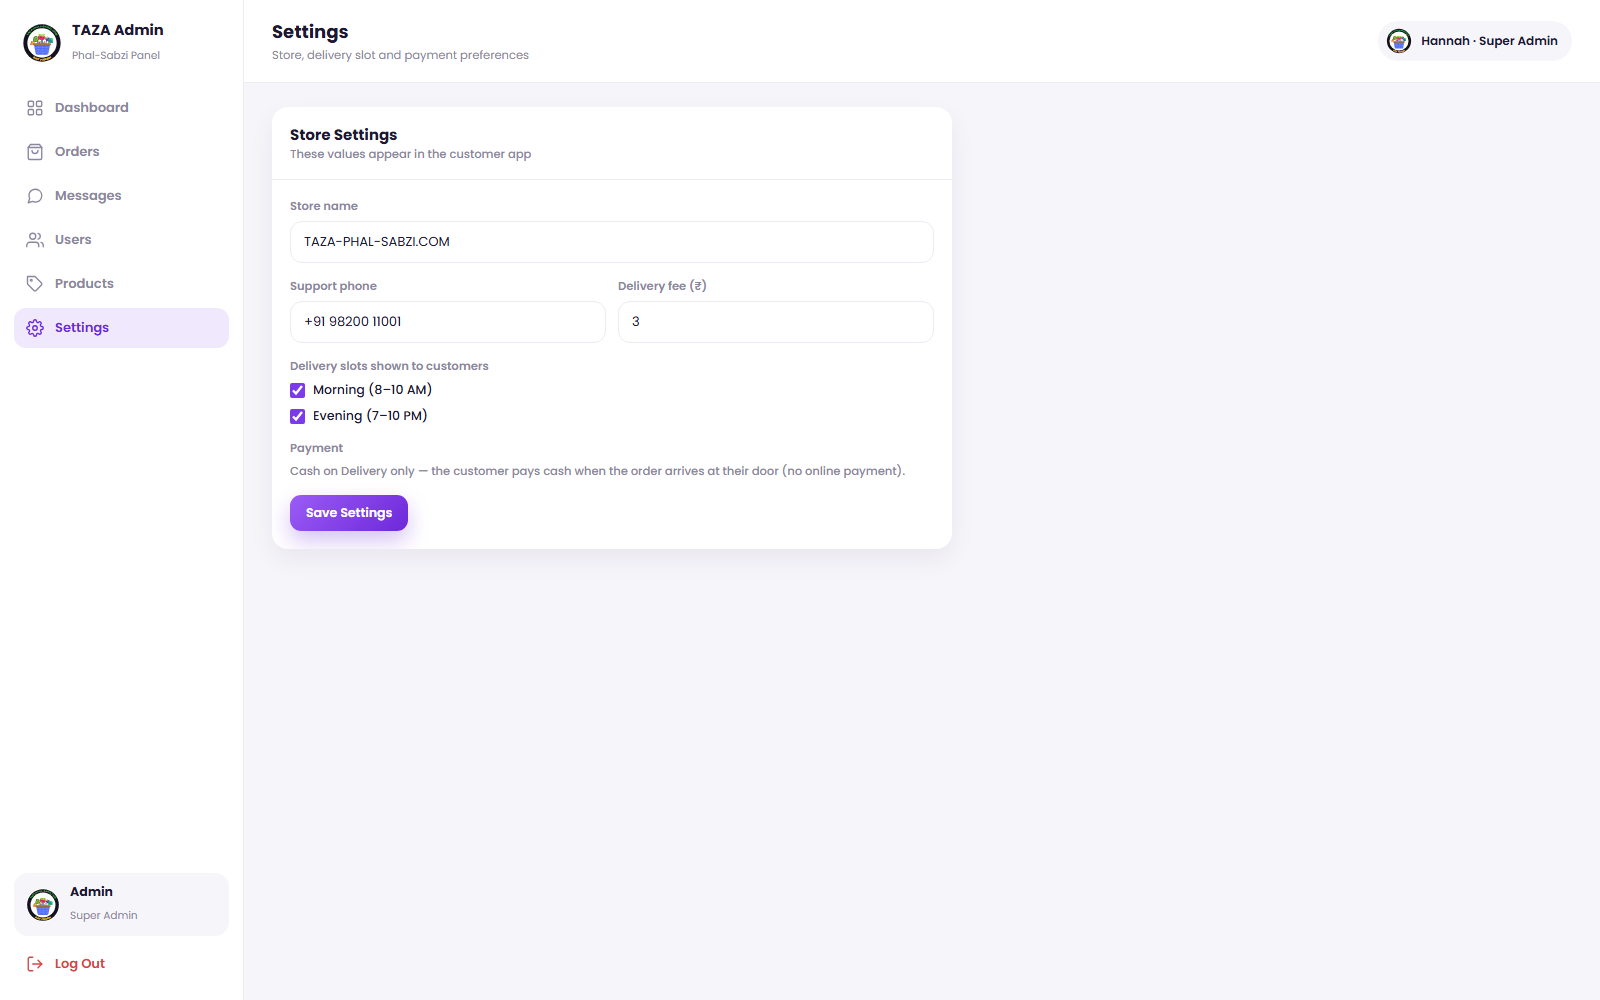
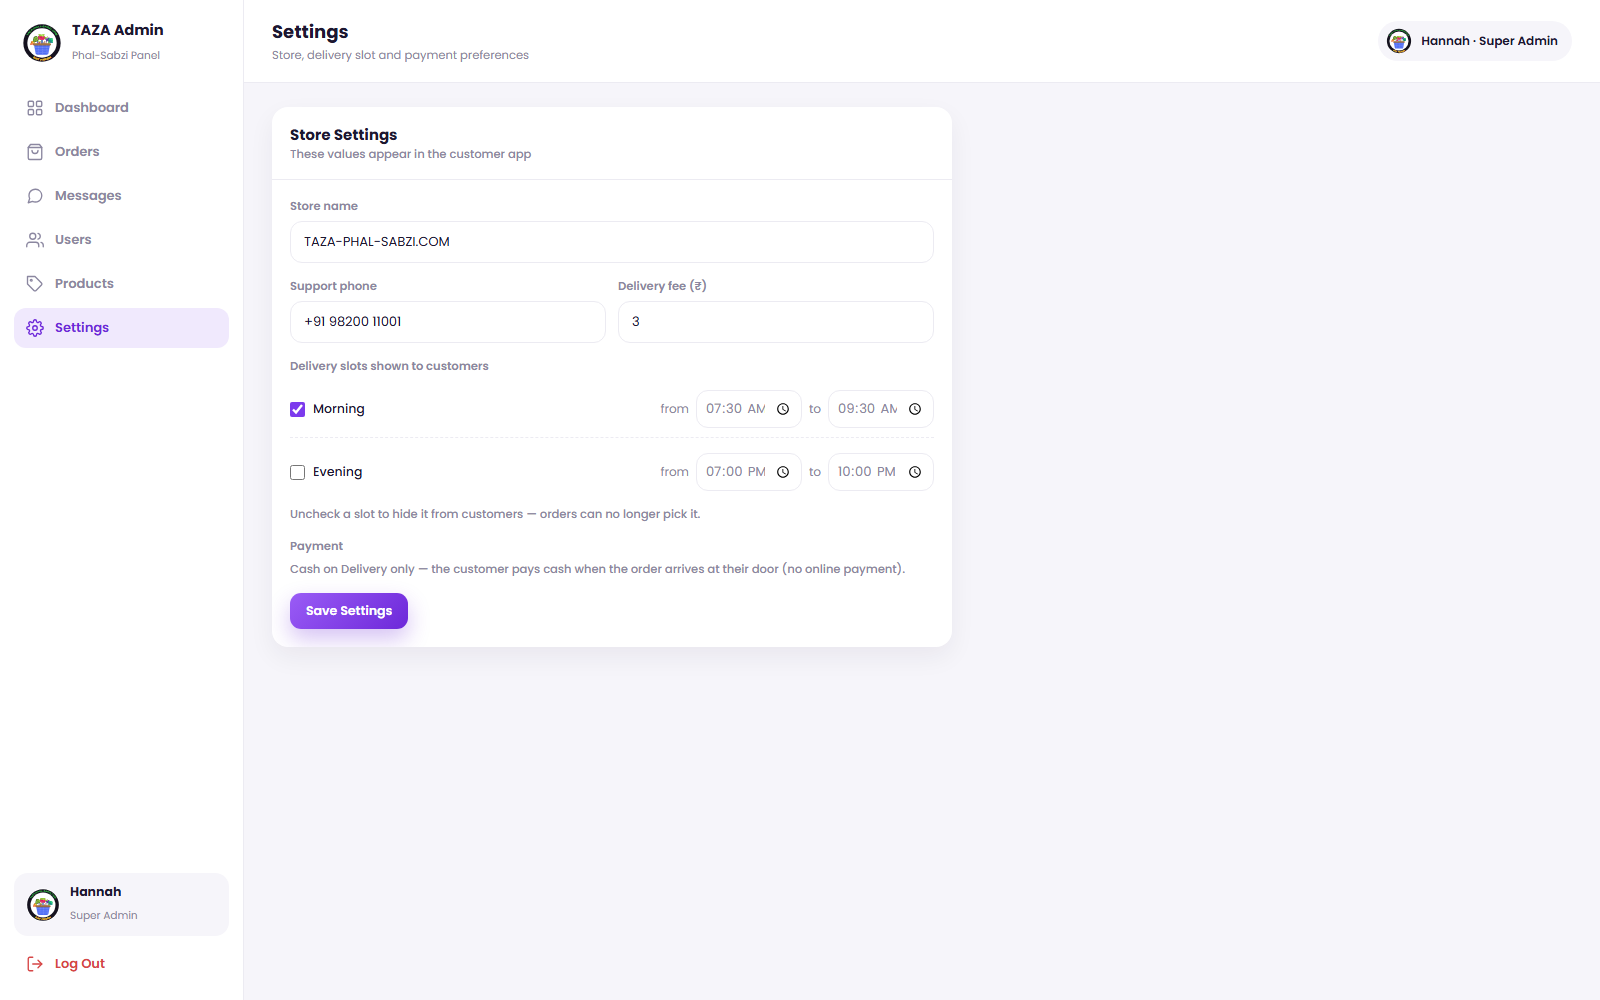
Delivery slots: admin-editable timings + disabled slots enforced (cart hides them, server rejects)

Changed region(s): [[0.1562, 0.372, 0.5625, 0.651], [0.4375, 0.403, 0.5, 0.434], [0.5312, 0.403, 0.5625, 0.434]]

diff --git a/templates/app.js b/templates/app.js
@@ -217,8 +217,9 @@
       menu_help: 'Help & Support',
       menu_logout: 'Log Out',
       slot_title: 'Delivery Slot',
-      slot_morning: 'Morning (8–10 AM)',
-      slot_evening: 'Evening (7–10 PM)',
+      slot_morning: 'Morning',
+      slot_evening: 'Evening',
+      slot_none: 'No delivery slots are open right now — please check back soon',
       slot_sub: 'Order before 10 PM · delivered next morning',
       pay_title: 'Payment Method',
       pay_cod: 'Cash on Delivery',
@@ -409,8 +410,9 @@
       menu_help: 'सहायता और समर्थन',
       menu_logout: 'लॉग आउट',
       slot_title: 'डिलीवरी समय',
-      slot_morning: 'सुबह (8–10 बजे)',
-      slot_evening: 'शाम (7–10 बजे)',
+      slot_morning: 'सुबह',
+      slot_evening: 'शाम',
+      slot_none: 'अभी कोई डिलीवरी स्लॉट उपलब्ध नहीं है — कृपया बाद में देखें',
       slot_sub: 'रात 10 बजे से पहले ऑर्डर = अगली सुबह डिलीवरी',
       pay_title: 'भुगतान विधि',
       pay_cod: 'कैश ऑन डिलीवरी',
@@ -601,8 +603,9 @@
       menu_help: 'मदत आणि समर्थन',
       menu_logout: 'लॉग आउट',
       slot_title: 'वितरण वेळ',
-      slot_morning: 'सकाळ (8–10)',
-      slot_evening: 'संध्याकाळ (7–10)',
+      slot_morning: 'सकाळ',
+      slot_evening: 'संध्याकाळ',
+      slot_none: 'सध्या कोणताही डिलिव्हरी स्लॉट उपलब्ध नाही — कृपया नंतर पहा',
       slot_sub: 'रात्री 10 पर्यंत ऑर्डर = पुढील सकाळी वितरण',
       pay_title: 'पेमेंट पद्धत',
       pay_cod: 'कॅश ऑन डिलिव्हरी',
@@ -2143,6 +2146,56 @@
       if (!ok) return;
       pollUnread();
       setInterval(pollUnread, 15000);
+    });
+  }
+
+  /* ---------- delivery slots: respect the admin's enabled slots + times ---------- */
+
+  function slotRangeText(from, to) {
+    var parts = function (t) {
+      var p = String(t || '').split(':');
+      var h = parseInt(p[0], 10) || 0;
+      var m = parseInt(p[1], 10) || 0;
+      return { h: ((h + 11) % 12) + 1, m: m, ap: h >= 12 ? 'PM' : 'AM' };
+    };
+    var a = parts(from), b = parts(to);
+    var fmt = function (x) { return x.h + (x.m ? ':' + String(x.m).padStart(2, '0') : ''); };
+    return a.ap === b.ap ? fmt(a) + '–' + fmt(b) + ' ' + b.ap : fmt(a) + ' ' + a.ap + ' – ' + fmt(b) + ' ' + b.ap;
+  }
+
+  function applySlotSettings(s) {
+    if (!s) return;
+    var mOpt = document.getElementById('slotMorningOpt');
+    var eOpt = document.getElementById('slotEveningOpt');
+    var mR = document.getElementById('slotRangeMorning');
+    var eR = document.getElementById('slotRangeEvening');
+    if (mR && s.morning_from && s.morning_to) mR.textContent = '(' + slotRangeText(s.morning_from, s.morning_to) + ')';
+    if (eR && s.evening_from && s.evening_to) eR.textContent = '(' + slotRangeText(s.evening_from, s.evening_to) + ')';
+
+    var mOn = Number(s.morning_slot) !== 0;
+    var eOn = Number(s.evening_slot) !== 0;
+    if (mOpt) mOpt.hidden = !mOn;
+    if (eOpt) eOpt.hidden = !eOn;
+
+    var card = $('.slot-card');
+    if (!card) return;
+    var active = $('.addr-option.active', card);
+    if (!active || active.hidden) {
+      var pick = mOn ? mOpt : (eOn ? eOpt : null);
+      $$('.addr-option', card).forEach(function (o) { o.classList.remove('active'); });
+      if (pick) {
+        pick.classList.add('active');
+        var inp = $('input', pick);
+        if (inp) inp.checked = true;
+      }
+    }
+    if (!mOn && !eOn) toast(t('slot_none'), 3000);
+  }
+
+  if (document.querySelector('.slot-card') && window.TAZA) {
+    window.TAZA.available().then(function (ok) {
+      if (!ok) return;
+      window.TAZA.getSettings().then(applySlotSettings).catch(function () { /* keep the defaults */ });
     });
   }
 

diff --git a/admin/admin.js b/admin/admin.js
@@ -205,7 +205,7 @@
         { from: 'me', text: 'Happy to help 🌿 See you in tomorrow\'s cycle.', time: '10:05 AM' }
       ] }
     ],
-    settings: { store_name: 'TAZA-PHAL-SABZI.COM', support_phone: '+91 98200 11001', delivery_fee: 3, cutoff_hour: 22, morning_slot: 1, evening_slot: 1, upi_enabled: 0, cod_enabled: 1 }
+    settings: { store_name: 'TAZA-PHAL-SABZI.COM', support_phone: '+91 98200 11001', delivery_fee: 3, cutoff_hour: 22, morning_slot: 1, evening_slot: 1, morning_from: '08:00', morning_to: '10:00', evening_from: '19:00', evening_to: '22:00', upi_enabled: 0, cod_enabled: 1 }
   };
 
   var state = {
@@ -553,7 +553,11 @@
         '<div class="kv"><span>Fruits</span><b>' + (fruitCount || 16) + '</b></div>' +
         '<div class="kv"><span>Order cutoff</span><b>' + settings.cutoff_hour + ':00 PM daily</b></div>' +
         '<div class="kv"><span>Daily capacity</span><b>99 orders</b></div>' +
-        '<div class="kv"><span>Delivery slots</span><b>' + (settings.morning_slot ? 'Morning' : '') + (settings.morning_slot && settings.evening_slot ? ' · ' : '') + (settings.evening_slot ? 'Evening' : '') + '</b></div>' +
+        '<div class="kv"><span>Delivery slots</span><b>' +
+        (settings.morning_slot ? 'Morning ' + slotRangeText(settings.morning_from || '08:00', settings.morning_to || '10:00') : '') +
+        (settings.morning_slot && settings.evening_slot ? ' · ' : '') +
+        (settings.evening_slot ? 'Evening ' + slotRangeText(settings.evening_from || '19:00', settings.evening_to || '22:00') : '') +
+        '</b></div>' +
         '<div class="kv"><span>Payments</span><b>Cash on Delivery — collected at the door</b></div>';
     }
   }
@@ -1101,8 +1105,25 @@
     if ($('#stFee')) $('#stFee').value = s.delivery_fee;
     if ($('#stMorning')) $('#stMorning').checked = !!s.morning_slot;
     if ($('#stEvening')) $('#stEvening').checked = !!s.evening_slot;
+    if ($('#stMorningFrom')) $('#stMorningFrom').value = s.morning_from || '08:00';
+    if ($('#stMorningTo')) $('#stMorningTo').value = s.morning_to || '10:00';
+    if ($('#stEveningFrom')) $('#stEveningFrom').value = s.evening_from || '19:00';
+    if ($('#stEveningTo')) $('#stEveningTo').value = s.evening_to || '22:00';
     if ($('#stUpi')) $('#stUpi').checked = !!s.upi_enabled;
     if ($('#stCod')) $('#stCod').checked = !!s.cod_enabled;
+  }
+
+  /* '08:00' + '10:00' -> "8–10 AM" (compact customer-facing range) */
+  function slotRangeText(from, to) {
+    const parts = function (t) {
+      const p = String(t || '').split(':');
+      const h = parseInt(p[0], 10) || 0;
+      const m = parseInt(p[1], 10) || 0;
+      return { h: ((h + 11) % 12) + 1, m: m, ap: h >= 12 ? 'PM' : 'AM' };
+    };
+    const a = parts(from), b = parts(to);
+    const fmt = function (x) { return x.h + (x.m ? ':' + String(x.m).padStart(2, '0') : ''); };
+    return a.ap === b.ap ? fmt(a) + '–' + fmt(b) + ' ' + b.ap : fmt(a) + ' ' + a.ap + ' – ' + fmt(b) + ' ' + b.ap;
   }
 
   function setupSettings() {
@@ -1110,12 +1131,20 @@
     if (!form) return;
     form.addEventListener('submit', function (e) {
       e.preventDefault();
+      var timeVal = function (id, fallback) {
+        var el = $(id);
+        return el && el.value ? el.value : fallback;
+      };
       var payload = {
         store_name: $('#stStoreName') ? $('#stStoreName').value.trim() : undefined,
         support_phone: $('#stPhone') ? $('#stPhone').value.trim() : undefined,
         delivery_fee: $('#stFee') ? parseInt($('#stFee').value, 10) : undefined,
         morning_slot: $('#stMorning') && $('#stMorning').checked ? 1 : 0,
         evening_slot: $('#stEvening') && $('#stEvening').checked ? 1 : 0,
+        morning_from: timeVal('#stMorningFrom', undefined),
+        morning_to: timeVal('#stMorningTo', undefined),
+        evening_from: timeVal('#stEveningFrom', undefined),
+        evening_to: timeVal('#stEveningTo', undefined),
         upi_enabled: 0,
         cod_enabled: 1
       };

diff --git a/server/test-e2e.js b/server/test-e2e.js
@@ -257,6 +257,27 @@ function check(name, ok, extra) {
   const meAfter = await req('GET', '/api/auth/me', null, custToken);
   check('customer uploads a profile photo', avRes.status === 200 && !!avJson.user && !!avJson.user.avatar && meAfter.data.user.avatar === avJson.user.avatar, avJson.user ? avJson.user.avatar : 'failed');
 
+  /* 17. delivery slots: admin timings + disabled slot enforcement */
+  const slotSet0 = await req('GET', '/api/settings');
+  check('public settings expose slot windows', slotSet0.status === 200 && slotSet0.data.morning_slot !== undefined && slotSet0.data.morning_from !== undefined, 'morning ' + slotSet0.data.morning_from + '–' + slotSet0.data.morning_to);
+
+  await req('PUT', '/api/admin/settings', { morning_slot: 1, evening_slot: 0, morning_from: '07:30', morning_to: '09:30' }, adminToken);
+  const slotSet1 = await req('GET', '/api/settings');
+  const tryEvening = await req('POST', '/api/orders', {
+    items: [{ productId: itemA.id, qty: 1 }],
+    slot: 'evening',
+    payment: 'cod',
+    address: 'QA Lane, Test City'
+  }, custToken);
+  check(
+    'disabled slot is rejected at checkout + admin times are live',
+    Number(slotSet1.data.evening_slot) === 0 && slotSet1.data.morning_from === '07:30' && tryEvening.status === 400,
+    'evening order → ' + tryEvening.status + ', morning from ' + slotSet1.data.morning_from
+  );
+
+  /* restore the default slot windows */
+  await req('PUT', '/api/admin/settings', { morning_slot: 1, evening_slot: 1, morning_from: '08:00', morning_to: '10:00', evening_from: '19:00', evening_to: '22:00' }, adminToken);
+
   /* summary */
   console.log('');
   console.log(results.join('\n'));

diff --git a/server/routes/admin.js b/server/routes/admin.js
@@ -204,11 +204,17 @@ router.put('/settings', requireAdmin, wrap(async (req, res) => {
   const b = req.body || {};
   const num = function (v) { return v === undefined || v === null || v === '' ? null : Math.max(0, parseInt(v, 10) || 0); };
   const flag = function (v) { return v === 0 || v === 1 || v === true || v === false ? (v ? 1 : 0) : null; };
+  const time = function (v) {
+    const s = String(v || '').trim();
+    return /^([01]\d|2[0-3]):[0-5]\d$/.test(s) ? s : null;   /* HH:MM (24h) */
+  };
 
   await db.query(
     'UPDATE settings SET store_name = COALESCE(?, store_name), support_phone = COALESCE(?, support_phone), ' +
     'delivery_fee = COALESCE(?, delivery_fee), cutoff_hour = COALESCE(?, cutoff_hour), ' +
     'morning_slot = COALESCE(?, morning_slot), evening_slot = COALESCE(?, evening_slot), ' +
+    'morning_from = COALESCE(?, morning_from), morning_to = COALESCE(?, morning_to), ' +
+    'evening_from = COALESCE(?, evening_from), evening_to = COALESCE(?, evening_to), ' +
     'upi_enabled = COALESCE(?, upi_enabled), cod_enabled = COALESCE(?, cod_enabled) WHERE id = 1',
     [
       b.store_name ? String(b.store_name).slice(0, 120) : null,
@@ -217,6 +223,10 @@ router.put('/settings', requireAdmin, wrap(async (req, res) => {
       b.cutoff_hour !== undefined ? Math.min(23, Math.max(1, parseInt(b.cutoff_hour, 10) || 22)) : null,
       flag(b.morning_slot),
       flag(b.evening_slot),
+      time(b.morning_from),
+      time(b.morning_to),
+      time(b.evening_from),
+      time(b.evening_to),
       flag(b.upi_enabled),
       flag(b.cod_enabled)
     ]

diff --git a/templates/cart.html b/templates/cart.html
@@ -138,20 +138,20 @@
             <span data-i18n="slot_title">Delivery Slot</span>
           </h3>
 
-          <label class="addr-option active" data-slot="morning">
+          <label class="addr-option active" data-slot="morning" id="slotMorningOpt">
             <input type="radio" name="delivery-slot" checked hidden />
             <span class="addr-radio" aria-hidden="true"></span>
             <span class="addr-body">
-              <span class="addr-type" data-i18n="slot_morning">Morning (8–10 AM)</span>
+              <span class="addr-type"><span data-i18n="slot_morning">Morning</span> <em class="slot-range" id="slotRangeMorning">(8–10 AM)</em></span>
               <span class="addr-text" data-i18n="slot_sub">Delivered fresh to your door</span>
             </span>
           </label>
 
-          <label class="addr-option" data-slot="evening">
+          <label class="addr-option" data-slot="evening" id="slotEveningOpt">
             <input type="radio" name="delivery-slot" hidden />
             <span class="addr-radio" aria-hidden="true"></span>
             <span class="addr-body">
-              <span class="addr-type" data-i18n="slot_evening">Evening (7–10 PM)</span>
+              <span class="addr-type"><span data-i18n="slot_evening">Evening</span> <em class="slot-range" id="slotRangeEvening">(7–10 PM)</em></span>
               <span class="addr-text" data-i18n="slot_sub">Delivered fresh to your door</span>
             </span>
           </label>

diff --git a/admin/settings.html b/admin/settings.html
@@ -55,10 +55,21 @@
 
             <div class="field">
               <span>Delivery slots shown to customers</span>
-              <div class="stack-checks">
-                <label class="check"><input type="checkbox" id="stMorning" checked /> Morning (8–10 AM)</label>
-                <label class="check"><input type="checkbox" id="stEvening" checked /> Evening (7–10 PM)</label>
+              <div class="slot-row">
+                <label class="check"><input type="checkbox" id="stMorning" checked /> Morning</label>
+                <span class="slot-times">
+                  from <input class="input slot-time" type="time" id="stMorningFrom" value="08:00" />
+                  to <input class="input slot-time" type="time" id="stMorningTo" value="10:00" />
+                </span>
               </div>
+              <div class="slot-row">
+                <label class="check"><input type="checkbox" id="stEvening" checked /> Evening</label>
+                <span class="slot-times">
+                  from <input class="input slot-time" type="time" id="stEveningFrom" value="19:00" />
+                  to <input class="input slot-time" type="time" id="stEveningTo" value="22:00" />
+                </span>
+              </div>
+              <p class="hint">Uncheck a slot to hide it from customers — orders can no longer pick it.</p>
             </div>
 
             <div class="field">

diff --git a/server/routes/orders.js b/server/routes/orders.js
@@ -57,10 +57,17 @@ router.post('/', requireAuth, wrap(async (req, res) => {
       return res.status(400).json({ error: 'Items are no longer available' });
     }
 
-    /* 2. settings: delivery fee + cutoff */
-    const [[settings]] = await conn.query('SELECT delivery_fee, cutoff_hour FROM settings WHERE id = 1');
+    /* 2. settings: delivery fee + cutoff + slot availability */
+    const [[settings]] = await conn.query('SELECT delivery_fee, cutoff_hour, morning_slot, evening_slot FROM settings WHERE id = 1');
     const fee = settings ? settings.delivery_fee : 3;
     const cutoff = settings ? settings.cutoff_hour : 22;
+
+    /* the requested slot must be switched on by the admin */
+    const slotOn = settings && (slot === 'morning' ? settings.morning_slot : settings.evening_slot);
+    if (!slotOn) {
+      await conn.rollback();
+      return res.status(400).json({ error: 'That delivery slot is currently unavailable — please pick another' });
+    }
 
     /* UPI orders get a 3% discount on the items subtotal */
     const discount = payment === 'upi' ? Math.round(subtotal * 0.03 * 10) / 10 : 0;

diff --git a/admin/admin.css b/admin/admin.css
@@ -555,6 +555,31 @@ body { padding-bottom: env(safe-area-inset-bottom); }
   color: var(--muted);
 }
 
+/* ---------- settings: delivery slot rows ---------- */
+.slot-row {
+  display: flex;
+  align-items: center;
+  justify-content: space-between;
+  gap: 14px;
+  flex-wrap: wrap;
+  padding: 9px 0;
+  border-bottom: 1px dashed var(--line);
+}
+.slot-row:last-of-type { border-bottom: 0; }
+.slot-times {
+  display: flex;
+  align-items: center;
+  gap: 7px;
+  font-size: 12px;
+  color: var(--muted);
+}
+.slot-time {
+  width: 106px;
+  height: 38px !important;
+  padding: 0 8px;
+  font-size: 13px;
+}
+
 /* settings */
 .settings-card { max-width: 680px; }
 .settings-form { display: flex; flex-direction: column; gap: 15px; padding: 18px; }

diff --git a/server/migrate.js b/server/migrate.js
@@ -200,6 +200,12 @@ const ADDRESSES = [
   );
   console.log('~ product_images table ensured');
 
+  /* v7: editable delivery-slot windows (admin can adjust timings per slot) */
+  await addCol('settings', 'morning_from', "morning_from VARCHAR(5) NOT NULL DEFAULT '08:00'");
+  await addCol('settings', 'morning_to', "morning_to VARCHAR(5) NOT NULL DEFAULT '10:00'");
+  await addCol('settings', 'evening_from', "evening_from VARCHAR(5) NOT NULL DEFAULT '19:00'");
+  await addCol('settings', 'evening_to', "evening_to VARCHAR(5) NOT NULL DEFAULT '22:00'");
+
   /* backfill sections */
   const maps = [
     ['kg', SECTION_KG], ['bunch', SECTION_BUNCH], ['gram', SECTION_GRAM],

diff --git a/server/routes/settings.js b/server/routes/settings.js
@@ -1,0 +1,15 @@
+/* /api/settings — public, customer-facing store settings (no secrets) */
+const express = require('express');
+const db = require('../db');
+const { wrap } = require('../util');
+
+const router = express.Router();
+
+router.get('/', wrap(async (req, res) => {
+  const [[s]] = await db.query(
+    'SELECT morning_slot, evening_slot, morning_from, morning_to, evening_from, evening_to, cutoff_hour, delivery_fee, support_phone, store_name FROM settings WHERE id = 1'
+  );
+  res.json(s || { morning_slot: 1, evening_slot: 1 });
+}));
+
+module.exports = router;

diff --git a/templates/styles.css b/templates/styles.css
@@ -1506,6 +1506,14 @@ input[type='search']::-webkit-search-cancel-button { display: none; }
 .ps-foot { display: flex; justify-content: flex-end; margin-top: 12px; }
 .ps-foot .stepper { transform: scale(1.12); transform-origin: right center; }
 
+/* dynamic slot window inside the delivery-slot options */
+.slot-range {
+  font-style: normal;
+  font-weight: 500;
+  font-size: 11.5px;
+  color: var(--muted);
+}
+
 /* ---------------- Toast ---------------- */
 
 .toast {

diff --git a/templates/api.js b/templates/api.js
@@ -78,6 +78,7 @@
     },
 
     getProducts: function (cat) { return request('GET', '/products' + (cat ? '?cat=' + encodeURIComponent(cat) : '')); },
+    getSettings: function () { return request('GET', '/settings'); },
     placeOrder: function (payload) { return request('POST', '/orders', payload); },
     myOrders: function () { return request('GET', '/orders'); },
 
